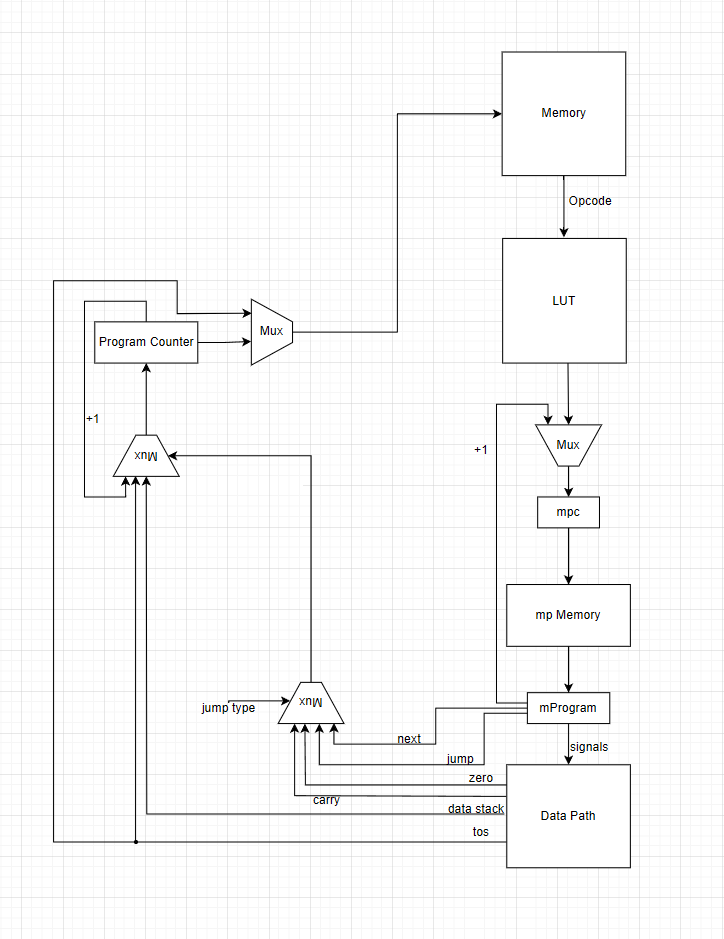
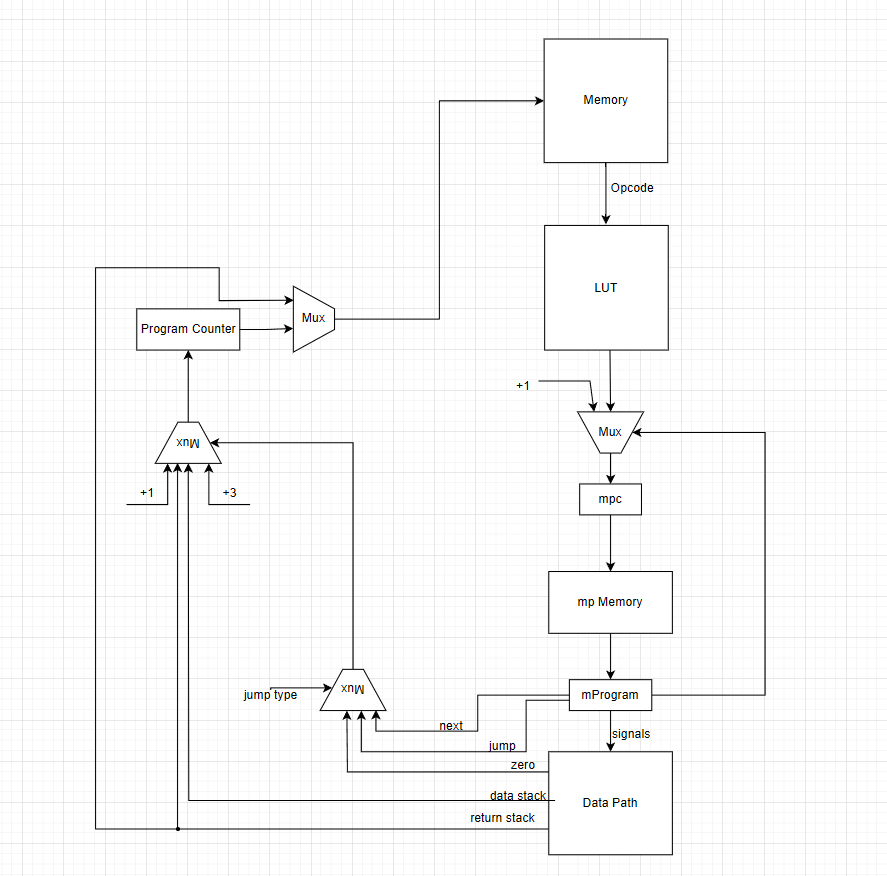
readme

diff --git a/README.md b/README.md
@@ -221,7 +221,7 @@ input_stream - поток ввода
   например такое есть во всех операциях АЛУ. Микрокод на команду будет выполняться, пока меняется mpc.
 
 Описание микрокода:
-Каждая микропрограмма содержит 42 сигнала, значит кодируется 42-мя битами
+Каждая микропрограмма содержит 41 сигнала
 ```
 1. sf - открыть защелку с первого значения стека
 2. ss - открыть защелку со второго значения стека
@@ -245,7 +245,6 @@ input_stream - поток ввода
 39. mux2CU - защелкнуть из мукса в control unit
 40. mux2stack - защелкнуть из мукса в stack
 41. mux2alu - защелкнуть из мукса в alu
-42. next - следующая команда
 ```
 
 Рассмотрим как работает команда `ADD`
@@ -266,7 +265,7 @@ input_stream - поток ввода
 ## Схемы DataPath и ControlUnit
 Control Unit:
 
-![img.png](images/cu2.png)
+![img.png](images/cu.png)
 
 Data Path:
 
@@ -308,6 +307,56 @@ while:
 end:                                    ; завершаем работу программы
     halt
 ```
+output.bin.hex
+```
+0x8 -   1500008C - lit (0000008C)
+0xc -   15000050 - lit (00000050)
+0x10 -         12 - @
+0x11 -         11 - !
+0x12 -   15000088 - lit (00000088)
+0x16 -   15000050 - lit (00000050)
+0x1a -   15000004 - lit (00000004)
+0x1e -          3 - +
+0x1f -         11 - !
+0x20 -   15000088 - lit (00000088)
+0x24 -         12 - @
+0x25 -         12 - @
+0x26 -   16000002 - out (00000002)
+0x2a -   15000088 - lit (00000088)
+0x2e -          1 - dup
+0x2f -         12 - @
+0x30 -   15000004 - lit (00000004)
+0x34 -          3 - +
+0x35 -         11 - !
+0x36 -   15000001 - lit (00000001)
+0x3a -   1500008C - lit (0000008C)
+0x3e -         12 - @
+0x3f -          4 - -
+0x40 -          1 - dup
+0x41 -   1000004F - if (0000004F)
+0x45 -   1500008C - lit (0000008C)
+0x49 -          2 - swap
+0x4a -         11 - !
+0x4b -   17000020 - jump (00000020)
+0x4f -         14 - halt
+0x50 -          D - hello_world
+0x54 -         48 - hello_world
+0x58 -         65 - hello_world
+0x5c -         6C - hello_world
+0x60 -         6C - hello_world
+0x64 -         6F - hello_world
+0x68 -         2C - hello_world
+0x6c -         20 - hello_world
+0x70 -         77 - hello_world
+0x74 -         6F - hello_world
+0x78 -         72 - hello_world
+0x7c -         6C - hello_world
+0x80 -         64 - hello_world
+0x84 -         21 - hello_world
+0x88 -          0 - index
+0x8c -          0 - len
+```
+
 
 ## Запуск golden-тестов
 ```
